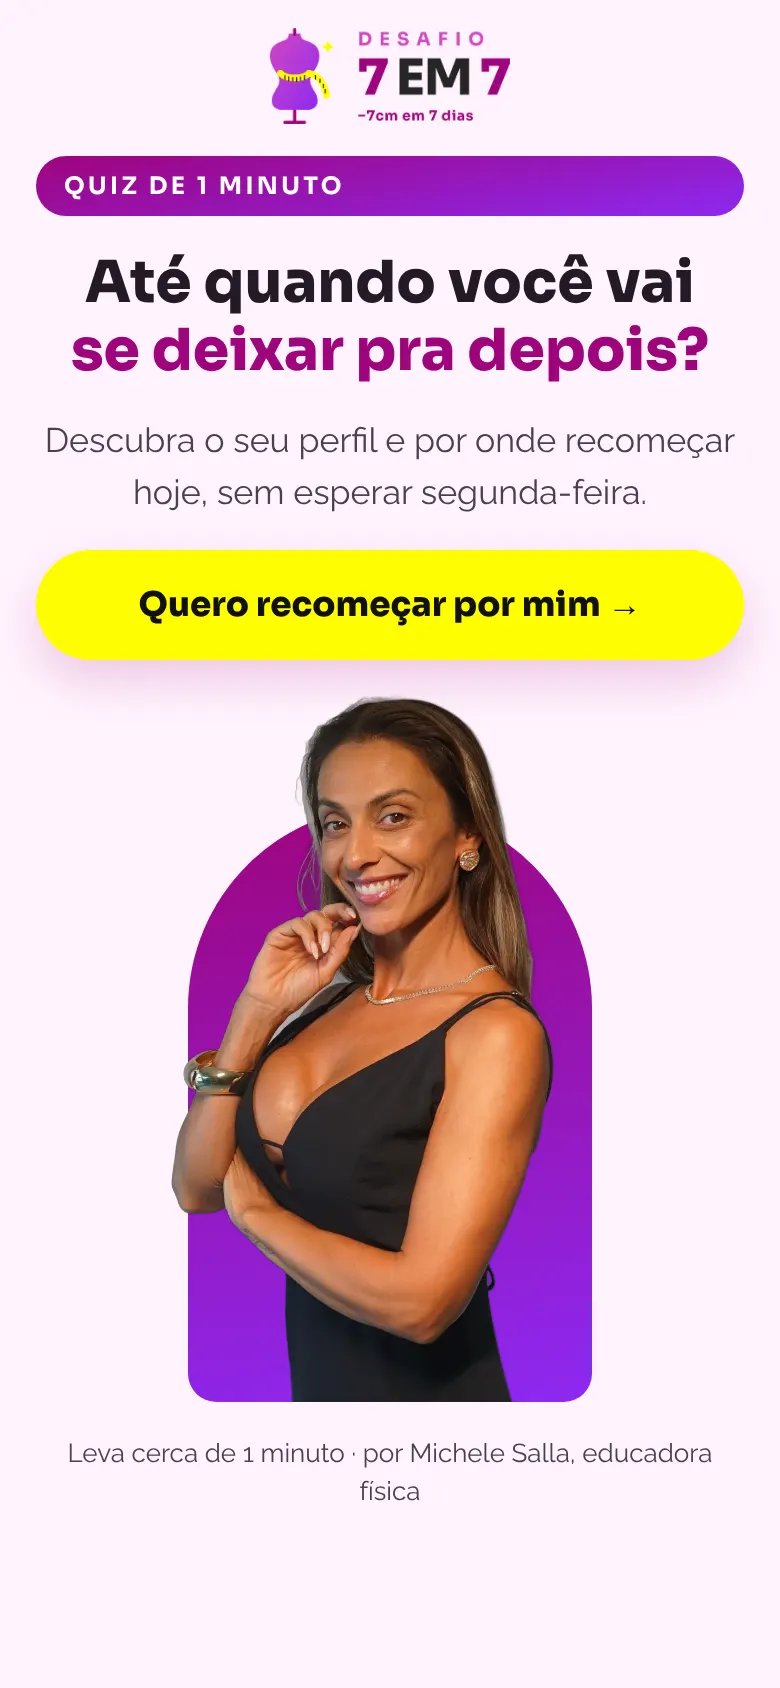
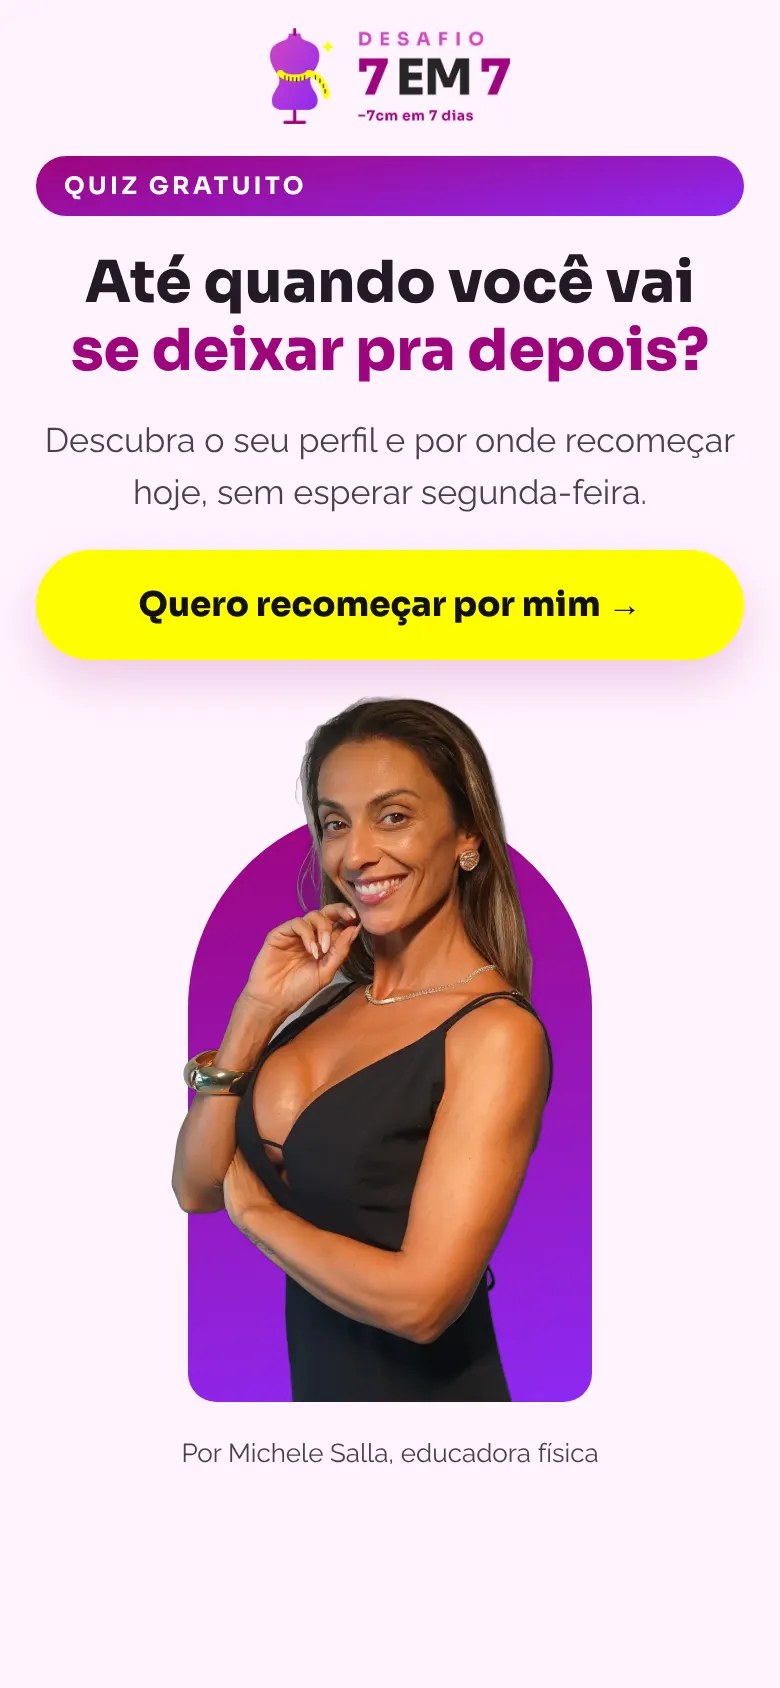
Quiz Diva: números reconferidos na fonte, textos sem fonte retirados e prints refeitos
Claude-Session: https://claude.ai/code/session_01LYmQoangNvB5k6wY4MKJN5

diff --git a/michele-salla/quiz/revisao/index.html b/michele-salla/quiz/revisao/index.html
@@ -101,7 +101,7 @@ footer{color:var(--suave);font-size:13px}
 <section class="topo">
   <span class="rot">Michele Salla · Desafio 7 em 7 · revisão de 03/11/2026</span>
   <h1>Quiz Diva: 5 promessas, 22 telas, 5 perfis e 1 oferta</h1>
-  <p class="sub">Modelado no quiz do Efeito Lipo da Laura, que vendeu cerca de 100 vezes desde 01/10. As 5 capas usam as promessas da reunião, escritas com as palavras dos posts da Michele que mais tiveram cliques. Tudo que falta a Michele confirmar aparece em <mark class="p">amarelo</mark>.</p>
+  <p class="sub">Modelado no quiz do Efeito Lipo da Laura (de 07/10 a 01/11: 3.155 visitas e 75 vendas do produto principal). As 5 capas usam as promessas da reunião, escritas com as palavras dos posts da Michele que mais tiveram cliques. Tudo que falta a Michele confirmar aparece em <mark class="p">amarelo</mark>.</p>
   <div class="botoes">
     <a class="bt forte" href="https://clientes-phi-six.vercel.app/michele-salla/quiz/?p=1">Abrir o quiz →</a>
     <a class="bt" href="https://clientes-phi-six.vercel.app/michele-salla/quiz/?p=1">Capa 1</a>
@@ -166,7 +166,7 @@ footer{color:var(--suave);font-size:13px}
 
 <section class="sec" id="ganchos">
   <header><span class="rot">5 · 20 ganchos para a Michele gravar</span><h2>4 ganchos por promessa, com as palavras dela</h2>
-  <p class="sub">Cada gancho é a primeira frase do vídeo. Depois do gancho, a Michele fala 2 ou 3 frases sobre o problema e chama para o quiz (“responde esse quiz de 1 minuto”). Os marcados com <span class="selo risco">atenção</span> falam de condição do corpo da pessoa e podem ser barrados pelo Meta; prefira a versão em primeira pessoa ou como pergunta de aluna.</p></header>
+  <p class="sub">Cada gancho é a primeira frase do vídeo. Depois do gancho, a Michele fala 2 ou 3 frases sobre o problema e chama para o quiz (“responde esse quiz rápido”). Os marcados com <span class="selo risco">atenção</span> falam de condição do corpo da pessoa e podem ser barrados pelo Meta; prefira a versão em primeira pessoa ou como pergunta de aluna.</p></header>
   <div class="ganchos" id="lista-ganchos"></div>
 </section>
 
@@ -199,7 +199,7 @@ footer{color:var(--suave);font-size:13px}
         <tr><td>Chega ao resultado</td><td class="num">22,5% das visitas</td></tr>
         <tr><td>Clica para comprar</td><td class="num">68% de quem viu o resultado</td></tr>
       </table></div>
-      <p class="dica">Página do Desafio em outubro: só 8,6% passaram da primeira tela.</p>
+      <p class="dica">Página do Desafio, campanha de 26 a 29/10: só 8,6% das visitas do anúncio passaram da primeira tela (54 de 627, painel da Michele). Não é a mesma medida da capa do quiz, mas mostra o tamanho do problema.</p>
     </div>
   </div>
 </section>
@@ -208,19 +208,21 @@ footer{color:var(--suave);font-size:13px}
   <header><span class="rot">7 · De onde veio cada escolha</span><h2>Os dados usados</h2></header>
   <div class="duas">
     <div class="caixa">
-      <h3>Quiz do Efeito Lipo (Laura), desde 01/10</h3>
+      <h3>Quiz do Efeito Lipo (Laura), de 07/10 a 01/11</h3>
       <div class="rolar" style="border:0"><table style="min-width:0">
         <tr><th>Etapa</th><th style="text-align:right">Pessoas</th></tr>
         <tr><td>Abriram o quiz (sessões reais)</td><td class="num">3.155</td></tr>
         <tr><td>Passaram da capa</td><td class="num">901</td></tr>
         <tr><td>Chegaram ao resultado</td><td class="num">711</td></tr>
         <tr><td>Clicaram para comprar</td><td class="num">481</td></tr>
-        <tr><td>Compraram (Greenn + Hotmart)</td><td class="num">≈ 100</td></tr>
+        <tr><td>Compraram o produto principal (Greenn 72 + Hotmart 3)</td><td class="num">75</td></tr>
+        <tr><td>Itens extras no mesmo período (order bump e upsell)</td><td class="num">25</td></tr>
       </table></div>
+      <p class="dica">Fonte: banco do quiz da Laura (sessões sem robôs e sem Audience Network) e vendas aprovadas com <code>sck=efeito-lipo-quiz</code>. Conferido em 03/11/2026.</p>
       <p class="dica">Estrutura copiada: capa com promessa, idade, especialista, perguntas, prova, pausa de identificação, medo, sonho, análise, perfil e oferta única com resposta ao medo.</p>
     </div>
     <div class="caixa">
-      <h3>Posts da Michele que mais tiveram cliques</h3>
+      <h3>Posts impulsionados da Michele, por cliques</h3>
       <div class="rolar" style="border:0"><table>
         <tr><th>Post (começo do texto)</th><th style="text-align:right">Cliques</th><th style="text-align:right">CTR</th><th>Promessa</th></tr>
         <tr><td>“Você tem 5 minutos no seu dia?… Hipopressivos…”</td><td class="num">26.303</td><td class="num">4,09%</td><td>1</td></tr>
@@ -228,8 +230,12 @@ footer{color:var(--suave);font-size:13px}
         <tr><td>“Se você quer acelerar a queima… 5min de Hipopressivo”</td><td class="num">6.770</td><td class="num">5,65%</td><td>1</td></tr>
         <tr><td>“Michele, eu acordo com a barriga lisinha… à noite ela tá estufada”</td><td class="num">3.248</td><td class="num">4,45%</td><td>2</td></tr>
         <tr><td>“Você não precisa de mil abdominais…”</td><td class="num">2.992</td><td class="num">3,10%</td><td>3</td></tr>
+        <tr><td>“Deixa eu te lembrar de algo…” (você se deixou pra depois)</td><td class="num">2.178</td><td class="num">13,53%</td><td>5</td></tr>
+        <tr><td>“Chega de ficar pulando…” (só R$ 11 gastos)</td><td class="num">159</td><td class="num">7,00%</td><td>3</td></tr>
+        <tr><td>“Atenção Mulher… depois dos 35/40…”</td><td class="num">43</td><td class="num">1,72%</td><td>4</td></tr>
       </table></div>
-      <p class="dica">Também usados: “Chega de ficar pulando igual a uma maluca” (CTR 7%), “Atenção Mulher… depois dos 35/40… não é falta de esforço”, “Você se deixou pra depois” e o gancho da própria Michele para a Black.</p>
+      <p class="dica">Fonte: Gerenciador de Anúncios da Michele, todo o período (impulsionamentos de 03/2025 a 10/2026, com objetivo de cliques; o “Atenção Mulher”, de 05/2026, com objetivo de engajamento). Conferido em 03/11/2026.</p>
+      <p class="dica"><b>Limite destes dados:</b> são cliques e CTR, não vendas. Mostram o que chama atenção. Quem vende é o teste da fase 1. A promessa 4 tem a prova mais fraca (43 cliques, CTR 1,72%) e entra no teste como aposta.</p>
     </div>
   </div>
 </section>
@@ -257,7 +263,8 @@ footer{color:var(--suave);font-size:13px}
         <li><span>Bio da Michele: igual à página do Desafio (Educadora Física desde 2005, Barriga Negativa, mais de 20 anos).</span></li>
         <li><span>Módulos, bônus, preço R$ 47, 12x de R$ 4,83 e garantia: iguais à página no ar.</span></li>
         <li><span>Aviso de bebê recente e hérnia: texto do FAQ da página.</span></li>
-        <li><span>Nenhum número, depoimento ou promessa inventado. A idade da Michele ficou em amarelo.</span></li>
+        <li><span>Todos os números conferidos de novo na fonte em 03/11 (banco do quiz da Laura, Gerenciador de Anúncios e painel da Michele). Corrigido: eram 75 vendas do produto principal, não “cerca de 100” (as outras 25 eram itens extras).</span></li>
+        <li><span>Tirados por não terem fonte: “quiz de 1 minuto”, “mil abdominais podem estufar a barriga” e “abdominal não resolve”. A idade da Michele ficou em amarelo.</span></li>
         <li><span>Sem “canetinha”, sem festa ou viagem: a capa e o anúncio falam a mesma coisa, o erro da campanha de outubro.</span></li>
       </ul>
     </div>
@@ -272,6 +279,8 @@ footer{color:var(--suave);font-size:13px}
       <ul class="checks pend">
         <li><span>Dizer a idade dela para a capa 1 e o gancho 2.</span></li>
         <li><span>Aprovar as 5 promessas e os nomes dos 5 perfis.</span></li>
+        <li><span>Confirmar que faz mesmo a rotina de 5 minutos e o hipopressivo todos os dias (capa 1 e tela 8 dizem isso).</span></li>
+        <li><span>Ler, como especialista, o “O que está te travando” de cada perfil.</span></li>
         <li><span>Gravar os 20 ganchos (ou ao menos 1 por promessa para a fase 1).</span></li>
       </ul>
     </div>
@@ -293,15 +302,15 @@ footer{color:var(--suave);font-size:13px}
 const QUIZ = 'https://clientes-phi-six.vercel.app/michele-salla/quiz/'
 const PROM = [
   { p: 1, nome: 'A rotina da Michele', titulo: 'Descubra a rotina de 5 minutos por dia que eu faço para manter a barriga lisa aos <mark class="p">IDADE</mark> anos',
-    fonte: 'Reunião: mostrar a rotina dela (hipopressivo e mentalidade) e a persona resolvida, “eu tenho 40 anos, sou magra, sou resolvida”. Anúncio “Você tem 5 minutos no seu dia?”: o post com mais cliques da conta (26.303, CTR 4,09%).' },
+    fonte: 'Reunião: mostrar a rotina dela (hipopressivo e mentalidade) e a persona resolvida, “eu tenho 40 anos, sou magra, sou resolvida”. Anúncio “Você tem 5 minutos no seu dia?”: o post impulsionado com mais cliques da conta (26.303 cliques, CTR 4,09%, desde 08/2025).' },
   { p: 2, nome: 'Barriga estufada à noite', titulo: 'Você acorda com a barriga lisinha e à noite ela está estufada?',
     fonte: 'Anúncio com a frase de uma aluna: “Michele, eu acordo com a barriga lisinha… mas à noite ela tá estufada” (3.248 cliques, CTR 4,45%).' },
   { p: 3, nome: 'Sem mil abdominais', titulo: 'Você não precisa de mil abdominais. Precisa da técnica certa.',
-    fonte: 'Anúncios “Você não precisa de mil abdominais” (2.992 cliques), “Você está fazendo o vácuo abdominal errado?” (7.812 cliques, CTR 4,56%) e “Chega de ficar pulando igual a uma maluca” (CTR 7%).' },
+    fonte: 'Anúncios “Você não precisa de mil abdominais” (2.992 cliques), “Você está fazendo o vácuo abdominal errado?” (7.812 cliques, CTR 4,56%) e “Chega de ficar pulando igual a uma maluca” (CTR 7%, mas só 159 cliques).' },
   { p: 4, nome: 'Depois dos 40', titulo: 'Depois dos 40 a barriga parou de responder? Não é falta de esforço.',
-    fonte: 'Anúncio “Atenção Mulher… depois dos 35/40… não é falta de esforço. É falta da técnica certa” e a persona de 40 anos da reunião.' },
+    fonte: 'Anúncio “Atenção Mulher… depois dos 35/40… não é falta de esforço. É falta da técnica certa” e a persona de 40 anos da reunião. Prova fraca: esse anúncio teve só 43 cliques (CTR 1,72%). Entra no teste como aposta.' },
   { p: 5, nome: 'Você se deixou pra depois', titulo: 'Até quando você vai se deixar pra depois?',
-    fonte: 'Post “Deixa eu te lembrar de algo… Você se deixou pra depois” e o gancho da Michele para a Black: “Janeiro pode chegar com você já cuidando de si. Sua virada começa com cinco minutinhos.”' },
+    fonte: 'Post “Deixa eu te lembrar de algo… Você se deixou pra depois”: o maior CTR da conta (13,53%, 2.178 cliques com R$ 59). E o gancho da Michele para a Black: “Janeiro pode chegar com você já cuidando de si. Sua virada começa com cinco minutinhos.”' },
 ]
 const TELAS = [
   ['idade', 'Qual a sua faixa de idade?', 'Pergunta fácil logo no começo, como na Laura. Separa quem é público (35+) para o anúncio.'],
@@ -330,11 +339,11 @@ const GANCHOS = [
     ['Você tem 5 minutos no seu dia? Então deixa eu te mostrar o que eu faço pela minha barriga.', 'Do post com mais cliques da conta.'],
     ['Eu tenho <mark class="p">IDADE</mark> anos e essa é a rotina de 5 minutos que eu não largo.', 'Persona “resolvida” da reunião.'],
     ['Não é dieta maluca nem treino de 2 horas. São 5 minutos de hipopressivo.', 'Posts de hipopressivo e “sem dieta”.'],
-    ['Me perguntam o que eu faço para manter a cintura. Eu te mostro em um quiz de 1 minuto.', 'Chamada para o quiz.']] },
+    ['Quer saber o que eu faço para manter a cintura? Eu te mostro num quiz rápido.', 'Chamada para o quiz.']] },
   { p: 2, nome: 'Barriga estufada à noite', l: [
     ['“Michele, eu acordo com a barriga lisinha… mas à noite ela tá estufada.”', 'Frase da aluna no anúncio (CTR 4,45%).'],
     ['A sua barriga muda do dia para a noite? Ela está te dizendo uma coisa.', 'Pergunta do quiz.', true],
-    ['A roupa serve de manhã e aperta à noite? Responde esse quiz de 1 minuto.', 'Dor do dia a dia.', true],
+    ['A roupa serve de manhã e aperta à noite? Responde esse quiz rápido.', 'Dor do dia a dia.', true],
     ['Barriga estufada não se resolve com mil abdominais.', 'Ponte com a promessa 3.']] },
   { p: 3, nome: 'Sem mil abdominais', l: [
     ['Você não precisa de mil abdominais. Precisa da técnica certa.', 'Post “mil abdominais”.'],

diff --git a/michele-salla/quiz/quiz.js b/michele-salla/quiz/quiz.js
@@ -9,21 +9,21 @@ const CHECKOUT = 'https://payfast.greenn.com.br/199167/offer/E1YMM7' // Desafio 
 const PROMESSAS = {
   1: {
     nome: 'A rotina da Michele',
-    etiqueta: 'Quiz de 1 minuto',
+    etiqueta: 'Quiz gratuito',
     titulo: 'Descubra a rotina de <mark>5 minutos por dia</mark> que eu faço para manter a barriga lisa aos [[IDADE]] anos',
     sub: 'Responda e veja qual é o seu perfil e por onde você começa.',
     botao: 'Quero descobrir meu perfil',
   },
   2: {
     nome: 'Barriga estufada à noite',
-    etiqueta: 'Quiz de 1 minuto',
+    etiqueta: 'Quiz gratuito',
     titulo: 'Você acorda com a barriga lisinha e <mark>à noite ela está estufada?</mark>',
     sub: 'Descubra o que a sua barriga está te dizendo e o que fazer em 5 minutos por dia.',
     botao: 'Quero entender a minha barriga',
   },
   3: {
     nome: 'Sem mil abdominais',
-    etiqueta: 'Quiz de 1 minuto',
+    etiqueta: 'Quiz gratuito',
     titulo: 'Você não precisa de mil abdominais. <mark>Precisa da técnica certa.</mark>',
     sub: 'Descubra o seu perfil e o exercício de 5 minutos que afina a cintura sem impacto.',
     botao: 'Quero descobrir a técnica certa para mim',
@@ -32,12 +32,12 @@ const PROMESSAS = {
     nome: 'Depois dos 40',
     etiqueta: 'Para mulheres a partir dos 35',
     titulo: 'Depois dos 40 a barriga parou de responder? <mark>Não é falta de esforço.</mark>',
-    sub: 'É falta da técnica certa. Descubra o seu perfil em 1 minuto.',
+    sub: 'É falta da técnica certa. Descubra o seu perfil e por onde começar.',
     botao: 'Quero saber o meu perfil',
   },
   5: {
     nome: 'Você se deixou pra depois',
-    etiqueta: 'Quiz de 1 minuto',
+    etiqueta: 'Quiz gratuito',
     titulo: 'Até quando você vai <mark>se deixar pra depois?</mark>',
     sub: 'Descubra o seu perfil e por onde recomeçar hoje, sem esperar segunda-feira.',
     botao: 'Quero recomeçar por mim',
@@ -102,13 +102,13 @@ const PERFIS = {
   'estufada': {
     nome: 'A Diva da Barriga Estufada',
     retrato: 'A sua barriga muda ao longo do dia: de manhã está melhor e à noite está estufada. Isso mexe com a roupa, com o humor e com a autoestima.',
-    trava: 'Abdominal tradicional e treino de impacto não resolvem esse tipo de barriga. O que ajuda é ativar o seu cinturão natural com respiração e postura.',
+    trava: 'Fazer mais abdominal não é o caminho para esse tipo de barriga. O caminho é ativar o seu cinturão natural com respiração e postura.',
     comeca: 'Você começa pelas aulas “15 Minutos por Dia: Barriga e Cintura em Ação”, com exercícios funcionais, respiração e hipopressivos.',
   },
   'esforcada': {
     nome: 'A Diva Esforçada sem Técnica',
     retrato: 'Você não fica parada: já fez abdominal, dieta, treino. Mesmo assim, a barriga não sai e a cintura não aparece.',
-    trava: 'Não é falta de esforço, é falta da técnica certa. Mil abdominais podem até deixar a barriga mais estufada.',
+    trava: 'Não é falta de esforço, é falta da técnica certa. Você não precisa de mil abdominais.',
     comeca: 'Você começa aprendendo a técnica do jeito certo, nas aulas “15 Minutos por Dia”, para o esforço finalmente virar resultado.',
   },
   'recomeco': {

diff --git a/michele-salla/quiz/index.html b/michele-salla/quiz/index.html
@@ -130,7 +130,7 @@ function desenha() {
       <p class="sub">${esc(p.sub)}</p>
       <button class="botao" onclick="vai()">${esc(p.botao)} →</button>
       <div class="foto-capa"><img src="${IMG}michele-recorte.webp" alt="Michele Salla" width="802" height="1292"></div>
-      <p class="miudo">Leva cerca de 1 minuto · por Michele Salla, educadora física</p></section>`
+      <p class="miudo">Por Michele Salla, educadora física</p></section>`
   } else if (t.tipo === 'uma' || t.tipo === 'varias') {
     const marc = t.tipo === 'varias' ? (resp[t.id] || []) : [resp[t.id]]
     h += `<section class="pergunta"><h2>${esc(t.titulo)}</h2><p class="sub">${esc(t.sub || '')}</p></section>
@@ -139,7 +139,7 @@ function desenha() {
   } else if (t.tipo === 'michele') {
     h += `<section class="michele cartao"><img src="${IMG}michele-recorte.webp" alt="Michele Salla" width="802" height="1292">
       <h2 style="font-size:22px">Prazer, eu sou a Michele Salla</h2>
-      <p>Educadora Física desde 2005, especialista em emagrecimento comportamental e licenciada na técnica da Barriga Negativa.</p>
+      <p>Educadora Física desde 2005, especialista em emagrecimento comportamental, licenciada na técnica da Barriga Negativa e autora do livro Vida Diva (2025).</p>
       <p>Referência em transformação feminina há mais de 20 anos, criei uma metodologia que já ajudou milhares de mulheres a perderem a barriga sem viver de dietas: primeiro a mente, depois o corpo.</p>
       <p>Nas próximas perguntas, vou entender a sua barriga e a sua rotina para te mostrar por onde começar.</p></section>
       <button class="botao" onclick="vai()">Continuar →</button>`

diff --git a/michele-salla/PASSAGEM_BASTAO.md b/michele-salla/PASSAGEM_BASTAO.md
@@ -336,7 +336,8 @@ Os M da pasta "MICHELE LOW" são esses mesmos vídeos. Mapa conferido pelos quad
   - **Quiz:** `michele-salla/quiz/` (`quiz.js` = todos os textos, telas, perfis e regra; `index.html` = o quiz).
     Prévia: https://clientes-phi-six.vercel.app/michele-salla/quiz/?p=1 (capas `?p=1` a `5`).
     Painel com o print de cada tela: https://clientes-phi-six.vercel.app/michele-salla/quiz/revisao/ e https://claude.ai/artifact/UUtEikrpunkA3Ht7TSd8aN
-  - Modelado no quiz do Efeito Lipo da Laura (desde 01/10: 3.155 sessões, 28,6% passam da capa, 711 resultados, 481 cliques no checkout, ≈ 100 vendas).
+  - Modelado no quiz do Efeito Lipo da Laura (07/10 a 01/11: 3.155 sessões, 28,6% passam da capa, 711 resultados, 481 cliques no checkout,
+    75 vendas do produto principal + 25 itens extras; conferido no banco em 03/11).
   - **5 promessas = 5 capas** (resto igual): 1 rotina de 5 min da Michele (post com 26.303 cliques); 2 barriga estufada à noite;
     3 sem mil abdominais / técnica certa; 4 depois dos 40 não é falta de esforço; 5 você se deixou pra depois.
   - **22 telas**, 5 perfis por regra (Nova Fase → Estufada → Esforçada → Recomeça → Deixou pra Depois), oferta única do
@@ -347,6 +348,10 @@ Os M da pasta "MICHELE LOW" são esses mesmos vídeos. Mapa conferido pelos quad
     `window.plBloco` (chama `window.plTique()` antes e depois da troca). Site `quiz` no `cliente.config.ts` (domínios: michelesalla.com.br,
     clientes-phi-six.vercel.app, painel.michelesalla.com.br). A API aceita vários sites no mesmo domínio pelo começo do slug.
     Telas abertas com `?tela=` (painel de revisão) não rastreiam. Se o quiz mudar de endereço, pôr o domínio em `outrosDominios`.
+  - **Checagem dos 3 filtros do Patrik (03/11):** todos os números reconferidos na fonte. Corrigido "≈100 vendas" → 75 do produto
+    principal. Posts da Michele são impulsionamentos de CLIQUE (não venda). P5 tem o maior CTR da conta ("Deixa eu te lembrar", 13,53%);
+    P4 tem a prova mais fraca ("Atenção Mulher", 43 cliques, CTR 1,72%). Tirados textos sem fonte ("quiz de 1 minuto", "mil abdominais
+    estufam"). Michele precisa confirmar que faz a rotina de 5 min / hipopressivo todo dia e revisar o "trava" de cada perfil.
   - Plano de teste sugerido: 1 ABO com 5 conjuntos (1 por promessa) a R$ 21,15, mulheres 30–55, sem Audience Network, evento Compra.
 
 ## 9. Como trabalhar
